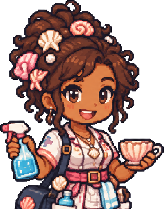
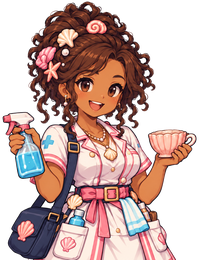
Anime art that matches the map sprites for Sola, Hank, Dr. Moor, Captain Marsh, DJ Static, Strand, Pell, the Squid Sailor and Nurse Coral (dialogue faces and full-body portraits), and Liss's walking sprite from her new sheet (tools/anime_cast_import.py); earlier art kept in art/raw/*/old_v1, old_v2

diff --git a/tools/anime_cast_import.py b/tools/anime_cast_import.py
@@ -1,0 +1,101 @@
+"""Anime character art that matches the map sprites (owner renders: waist-up bust on the left, full body on the right,
+white background, 1536x1024). For each key:
+  art/portraits_talk/<key>.png   the bust, cut out (dialogue face)
+  art/portraits/<key>.png        the full body on a 384x384 transparent square (people picker, website)
+The art each one replaces is kept in art/raw/portraits_talk/old_v2 and art/raw/portraits/old_v1; the render itself goes to
+art/raw/anime/<key>.png.
+
+With --sheet liss: a Liss-style character sheet (bust, full body, 4x4 walk grid on the right: rows down / up / left / left)
+gives art/characters/<key>.png (front), <key>_up.png and <key>_left/_right.png, 128x128.
+
+Usage: python tools/anime_cast_import.py <render.png> <key>
+       python tools/anime_cast_import.py --sheet <sheet.png> <key>
+"""
+import os, shutil, sys
+import numpy as np
+from PIL import Image, ImageOps
+from scipy import ndimage
+
+APP = os.path.dirname(os.path.dirname(os.path.abspath(__file__)))
+
+
+def figures(im, min_frac=0.002):
+    """Cut-out mask (outside white made transparent) and the bounding boxes of the figures in it, left to right."""
+    a = np.asarray(im.convert('RGB')).astype(int)
+    white = (a.min(axis=2) > 236) & ((a.max(axis=2) - a.min(axis=2)) < 18)
+    lab, _ = ndimage.label(white)
+    edge = set(lab[0, :]) | set(lab[-1, :]) | set(lab[:, 0]) | set(lab[:, -1])
+    edge.discard(0)
+    fg = ~np.isin(lab, list(edge))
+    fg = ndimage.binary_opening(fg, iterations=1)
+    fl, fn = ndimage.label(ndimage.binary_dilation(fg, iterations=6))   # sparkles and bubbles join the figure they float beside
+    boxes = [s + (i + 1,) for i, s in enumerate(ndimage.find_objects(fl)) if (s[0].stop - s[0].start) * (s[1].stop - s[1].start) > a.shape[0] * a.shape[1] * min_frac]
+    return a, fg & (fl > 0), fl, sorted(boxes, key=lambda s: s[1].start)
+
+
+def crop(a, fg, fl, s, pad=4):
+    y0, y1 = max(0, s[0].start - pad), min(a.shape[0], s[0].stop + pad)
+    x0, x1 = max(0, s[1].start - pad), min(a.shape[1], s[1].stop + pad)
+    own = fg[y0:y1, x0:x1] & (fl[y0:y1, x0:x1] == s[2])   # only this figure, not a neighbour reaching into its box
+    rgba = np.dstack([a[y0:y1, x0:x1], own * 255]).astype(np.uint8)
+    return Image.fromarray(rgba, 'RGBA')
+
+
+def keep(path, old):
+    if os.path.exists(path) and not os.path.exists(old):
+        os.makedirs(os.path.dirname(old), exist_ok=True)
+        shutil.copy2(path, old)
+
+
+def square(im, size):
+    im = im.copy()
+    im.thumbnail((size, size), Image.LANCZOS)
+    out = Image.new('RGBA', (size, size), (0, 0, 0, 0))
+    out.paste(im, ((size - im.width) // 2, size - im.height), im)
+    return out
+
+
+def anime(src, key):
+    im = Image.open(src)
+    a, fg, fl, boxes = figures(im, 0.02)
+    big = sorted(boxes, key=lambda s: -(s[0].stop - s[0].start) * (s[1].stop - s[1].start))[:2]
+    bust_box, body_box = sorted(big, key=lambda s: s[1].start)
+    os.makedirs(f'{APP}/art/raw/anime', exist_ok=True)
+    shutil.copy2(src, f'{APP}/art/raw/anime/{key}.png')
+    bust = crop(a, fg, fl, bust_box)
+    bust.thumbnail((360, 260), Image.LANCZOS)   # about the size of the other talk busts, a little sharper
+    keep(f'{APP}/art/portraits_talk/{key}.png', f'{APP}/art/raw/portraits_talk/old_v2/{key}.png')
+    bust.save(f'{APP}/art/portraits_talk/{key}.png')
+    keep(f'{APP}/art/portraits/{key}.png', f'{APP}/art/raw/portraits/old_v1/{key}.png')
+    square(crop(a, fg, fl, body_box), 384).save(f'{APP}/art/portraits/{key}.png')
+    print(key, 'bust', bust.size)
+
+
+def sheet(src, key):
+    im = Image.open(src)
+    W = im.width
+    a, fg, fl, boxes = figures(im, 0.0015)
+    grid = [s for s in boxes if s[1].start > W * 0.58]
+    rows = []
+    for s in sorted(grid, key=lambda s: s[0].start):
+        if rows and abs(rows[-1][0][0].start - s[0].start) < 60:
+            rows[-1].append(s)
+        else:
+            rows.append([s])
+    rows = [sorted(r, key=lambda s: s[1].start) for r in rows]
+    assert len(rows) == 4 and all(len(r) == 4 for r in rows), [len(r) for r in rows]
+    os.makedirs(f'{APP}/art/raw/anime', exist_ok=True)
+    shutil.copy2(src, f'{APP}/art/raw/anime/{key}_sheet.png')
+    frame = lambda s: square(crop(a, fg, fl, s), 128)
+    for name, img in ((key, frame(rows[0][0])), (key + '_up', frame(rows[1][0])), (key + '_left', frame(rows[2][0])), (key + '_right', ImageOps.mirror(frame(rows[2][0])))):
+        p = f'{APP}/art/characters/{name}.png'
+        keep(p, f'{APP}/art/raw/characters/old_v1/{name}.png')
+        img.save(p)
+    print(key, 'sprites from a', [len(r) for r in rows], 'grid')
+
+
+if __name__ == '__main__':
+    if sys.argv[1] == '--sheet':
+        sheet(sys.argv[2], sys.argv[3])
+    else:
+        anime(sys.argv[1], sys.argv[2])
